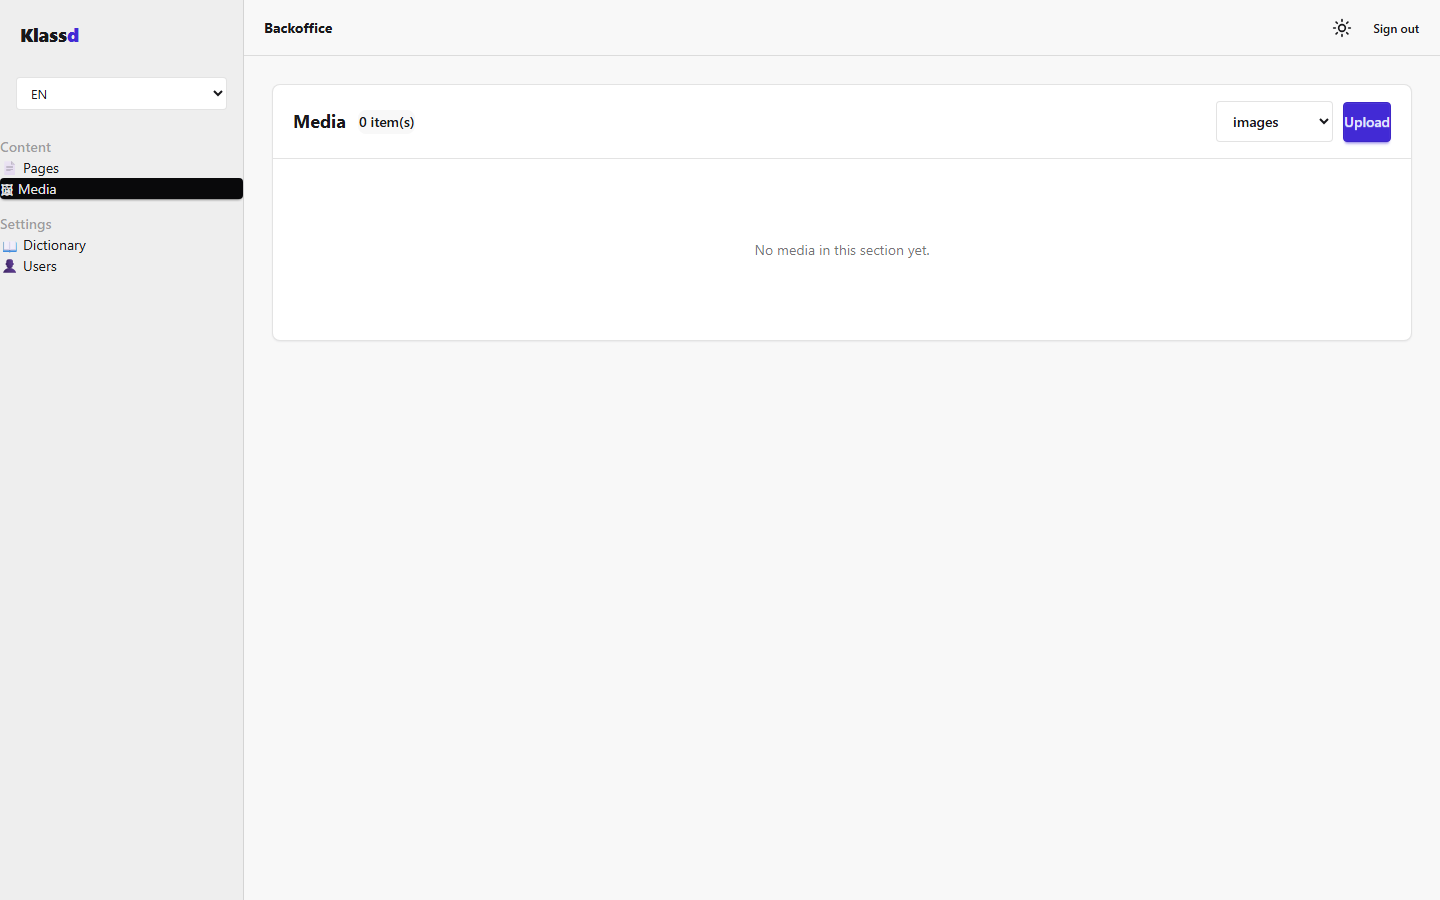
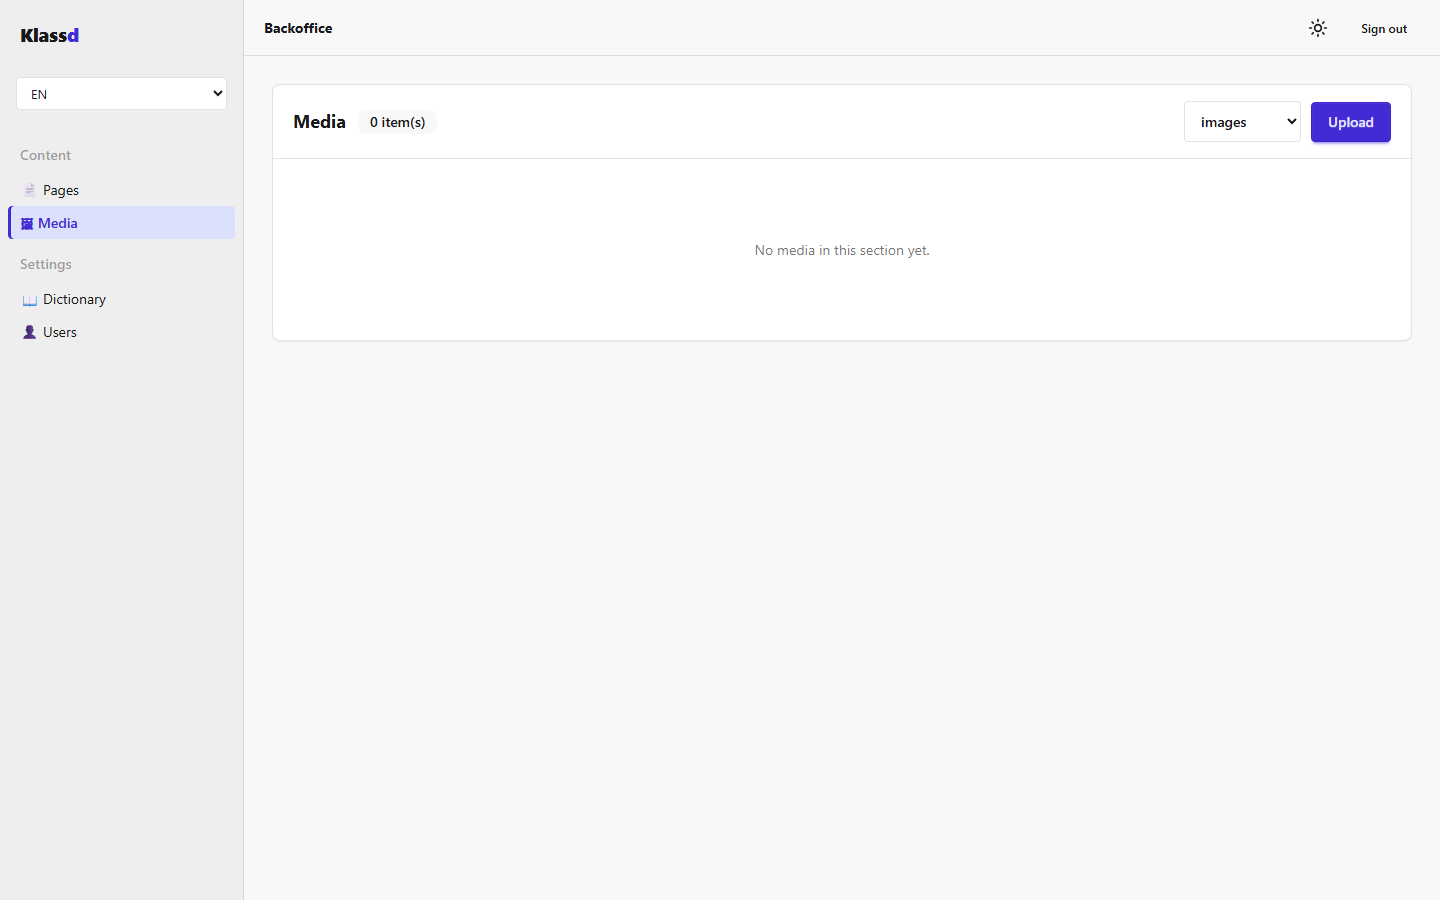
fix(backoffice): correct daisyUI cascade regressions in admin styling
The initial daisyUI restyle had two cascade bugs that left the UI looking broken:

- The base reset used an unlayered `* { margin:0; padding:0 }`. Unlayered rules
  beat @layer-ed ones regardless of specificity, so it stripped daisyUI's own
  component padding — buttons lost their horizontal padding and the sidebar menu
  lost its inset, rendering the active item as a full-bleed near-black bar.
  Replace it with a targeted reset (body + headings/figure only).
- daisyUI's `.card-body` is a stretch flex-column, so buttons placed directly in
  it (e.g. Dictionary "Create") spanned the full card width. Force `display:block`.

Also soften the sidebar menu active state to a subtle primary tint with a left
accent instead of daisyUI's default near-black neutral. Regenerate the README
screenshots.

diff --git a/src/Klassd.Backoffice/wwwroot/klassd.css b/src/Klassd.Backoffice/wwwroot/klassd.css
@@ -14,10 +14,14 @@
   --admin-muted: color-mix(in oklab, var(--color-base-content) 60%, transparent);
 }
 
-/* ── Reset / base (daisyUI's prebuilt CSS ships no full preflight) ──────────── */
+/* ── Reset / base (daisyUI's prebuilt CSS ships no full preflight) ──────────────
+   NOTE: keep this reset targeted. A blanket `* { margin:0; padding:0 }` is unlayered and
+   would override daisyUI's @layer-ed component padding (buttons, menu, …) — unlayered rules
+   beat layered ones regardless of specificity — leaving controls unpadded. So only reset the
+   element types whose UA margins we actually care about. */
 *, *::before, *::after { box-sizing: border-box; }
-* { margin: 0; padding: 0; }
-html, body { height: 100%; }
+body, h1, h2, h3, h4, h5, h6, p, figure, blockquote { margin: 0; }
+html, body { height: 100%; margin: 0; padding: 0; }
 body {
   font-family: ui-sans-serif, system-ui, -apple-system, BlinkMacSystemFont, "Segoe UI", Roboto, Helvetica, Arial, sans-serif;
   background: var(--color-base-200);
@@ -52,6 +56,12 @@ code {
 .admin-sidebar-locale select { width: 100%; padding: 6px 10px; font-size: 13px; }
 .admin-nav { width: 100%; }
 .admin-nav .menu-title { padding-top: 14px; }
+/* Soften daisyUI's default (near-black neutral) active state to a subtle primary tint. */
+.admin-nav {
+  --menu-active-bg: color-mix(in oklab, var(--color-primary) 16%, var(--color-base-100));
+  --menu-active-fg: var(--color-primary);
+}
+.admin-nav .menu-active { font-weight: 600; box-shadow: inset 3px 0 0 var(--color-primary); }
 
 /* daisyUI navbar already styles the topbar; just keep it from collapsing. */
 .admin-topbar { min-height: 56px; border-bottom: 1px solid var(--admin-border); padding: 0 20px; }
@@ -89,7 +99,9 @@ code {
   border-bottom: 1px solid var(--admin-border);
   display: flex; align-items: center; justify-content: space-between; gap: 12px;
 }
-.card-body { padding: 20px; }
+/* daisyUI's .card-body is a stretch flex-column; force normal block flow so buttons and
+   other direct children size to their content instead of spanning the full card width. */
+.card-body { display: block; padding: 20px; }
 
 /* ── Forms ─────────────────────────────────────────────────────────────────── */
 .form-group { margin-bottom: 16px; }
